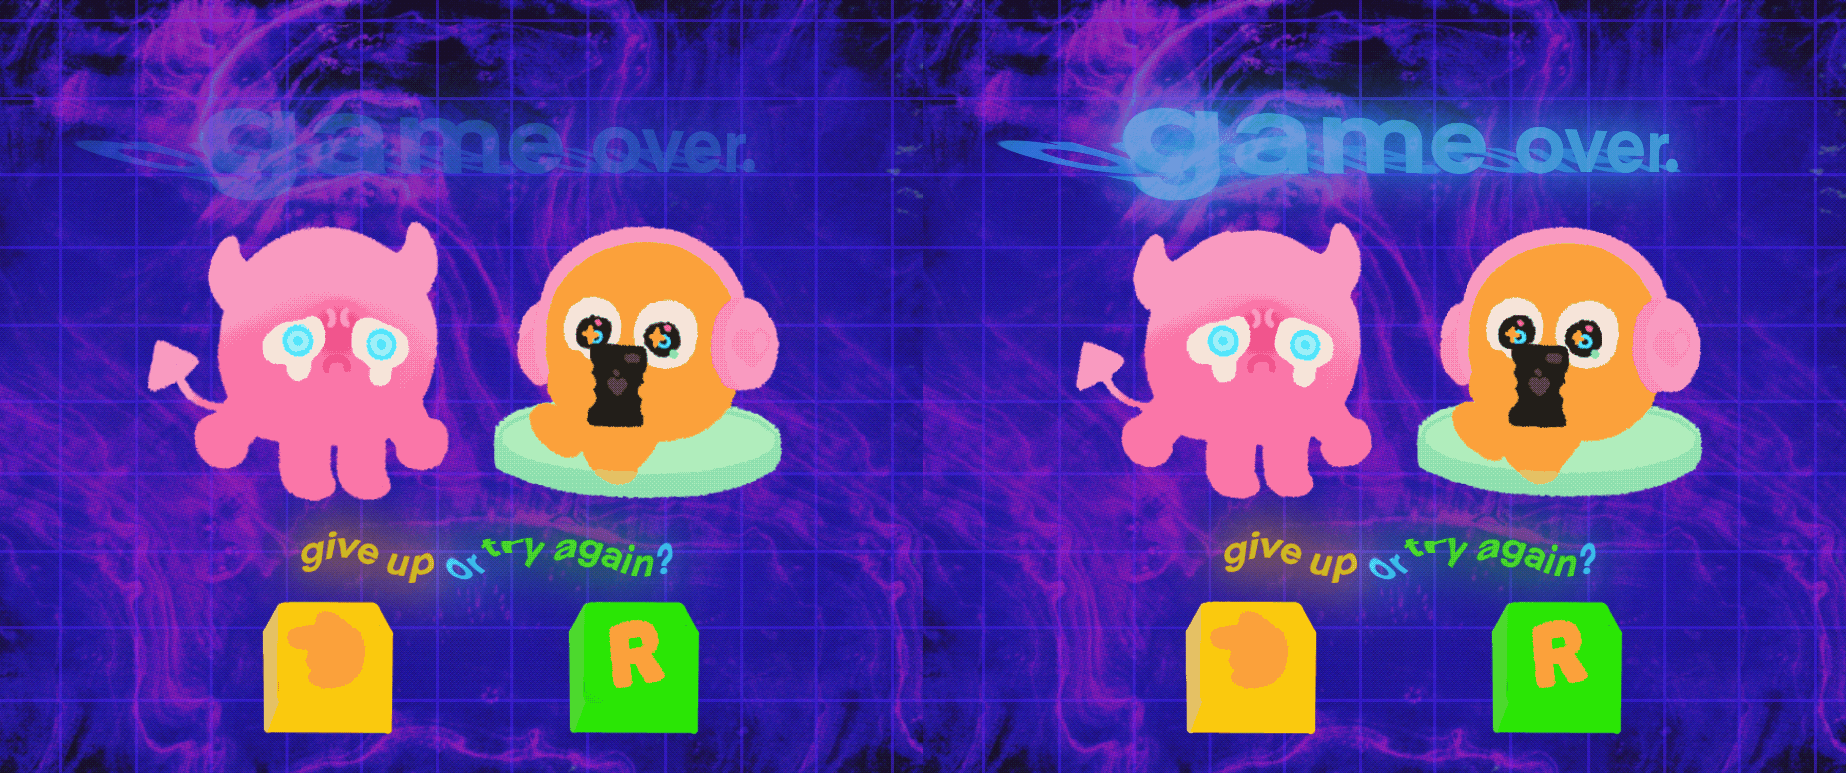
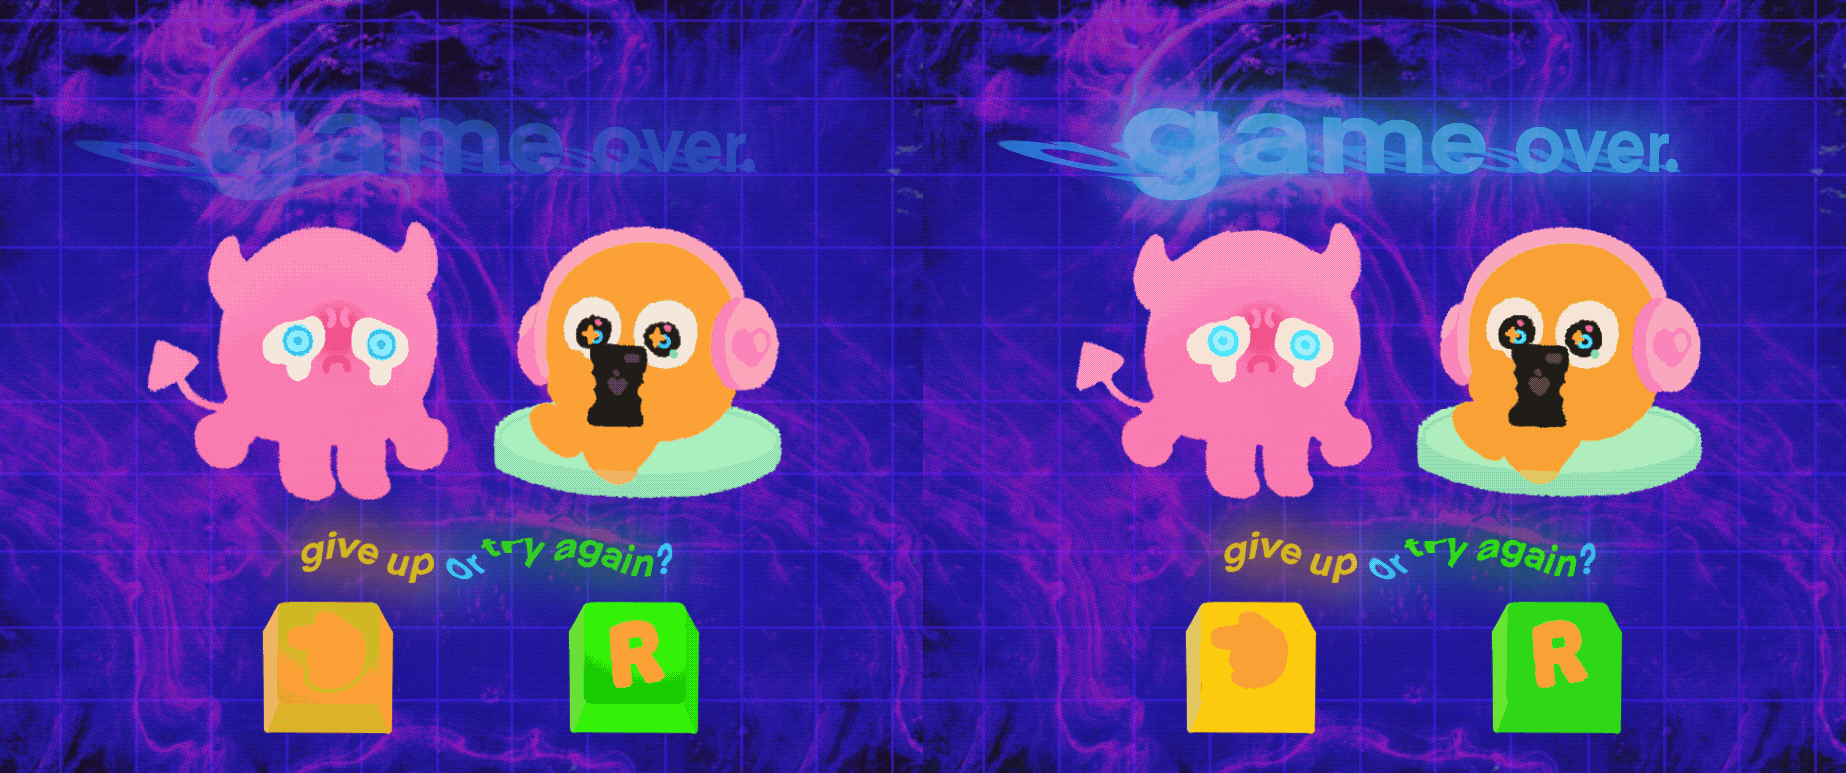
timer added, updated difficulty settings

diff --git a/src/scenes/Play.js b/src/scenes/Play.js
@@ -14,9 +14,9 @@ class Play extends Phaser.Scene {
         // load images/tile sprites
         this.load.image('bg', './assets/bg.png');
         // cells
-        this.load.image('leappul', './assets/leappul.png');
+        //this.load.image('leappul', './assets/leappul.png');
         //this.load.image('internalscreaming', './assets/internalscreaming.png');
-        this.load.image('rawrxd', './assets/rawrxd.png');
+        //this.load.image('rawrxd', './assets/rawrxd.png');
         //this.load.image('uwu', './assets/uwu.png');
         // enemies
         this.load.image('sadbat', './assets/sadbat.png');
@@ -71,13 +71,6 @@ class Play extends Phaser.Scene {
             frameRate: 30
         });
 
-        // let gmConfig = this.anims.create({
-        //     key: 'gm',
-        //     frames: this.anims.generateFrameNumbers('gameover', { start: 0, end: 1, first: 0}),
-        //     frameRate: 30
-        // });
-        // this.anims.create(gmConfig);
-
         // NEW: UPDATE AND SHOW SCORE FOR P2 √
         // initialize score
         this.p1Score = 0;
@@ -110,25 +103,13 @@ class Play extends Phaser.Scene {
             },
             fixedWidth: 100
         }
-        // game over
-        let gmConfig = {
-            fontFamily: 'Courier',
-            fontSize: '28px',
-            backgroundColor: '#000000',
-            color: '#6666FF',
-            align: 'center',
-            padding: {
-            top: 5,
-            bottom: 5,
-            },
-            fixedWidth: 100
-        }
 
+        // clock
         let clockConfig = {
-            fontFamily: 'Courier',
-            fontSize: '100px',
-            backgroundColor: '#21FFFF',
-            color: '#FFFFFF',
+            fontFamily: 'Comic Sans MS',
+            fontSize: '28px',
+            //backgroundColor: '#000000',
+            color: '#21FFFF',
             align: 'center',
             padding: {
             top: 5,
@@ -139,11 +120,10 @@ class Play extends Phaser.Scene {
 
         // display scores √
         // p1
-        this.scoreLeft = this.add.text(borderUISize + borderPadding, borderUISize + borderPadding*2, "" + this.p1Score, scoreConfig);
+        this.scoreLeft = this.add.text(borderUISize + borderPadding, borderUISize + borderPadding*2, this.p1Score, scoreConfig);
         // p2
-        this.scoreLeft2 = this.add.text(borderUISize + borderPadding + 700, borderUISize + borderPadding*2, "" + this.p2Score, scoreConfig2);
+        this.scoreLeft2 = this.add.text(borderUISize + borderPadding + 700, borderUISize + borderPadding*2, this.p2Score, scoreConfig2);
         
-        // NEW: UPDATE GAME OVER - MAKE SEP SCENE
         // GAME OVER flag
         this.gameOver = false;
         
@@ -151,15 +131,27 @@ class Play extends Phaser.Scene {
         // 60-second play clock
         scoreConfig.fixedWidth = 0;
         this.clock = this.time.delayedCall(game.settings.gameTimer, () => {
+            // NEW: UPDATE GAME OVER - MAKE SEP SCENE √
             this.scene.start("gmScene");
-            //this.add.text(game.config.width/2, game.config.height/2, 'GAME OVER', gmConfig).setOrigin(0.5);
-            //this.add.text(game.config.width/2, game.config.height/2 + 64, 'Press (R) to Restart or ← for Menu', scoreConfig).setOrigin(0.5);
             this.gameOver = true;
         }, null, this);
-        // display time?
+
+        this.timer = this.time.addEvent({ delay: game.settings.gameTimer });
+        this.remaining = this.timer.getRemaining();
+
+        // display time
+        // SRC: emeryplyler
+        scoreConfig.fixedWidth = 100;
+        this.timeShow = this.add.text(borderUISize + borderPadding + 350, borderUISize + borderPadding*2, this.clock + " secs left", clockConfig);
+        this.seconds = 0;
+        scoreConfig.fixedWidth = 0;
     }
 
-    update() {    
+    update() {  
+        // timer countdown
+        this.seconds = this.timer.getRemaining() / 1000;
+        this.timeShow.text = Math.ceil(this.seconds);
+  
         if (this.gameOver && Phaser.Input.Keyboard.JustDown(keyR)) {
             this.scene.restart();
         }

diff --git a/src/scenes/Difficulty.js b/src/scenes/Difficulty.js
@@ -44,8 +44,8 @@ class Difficulty extends Phaser.Scene {
         if (Phaser.Input.Keyboard.JustDown(keyLEFT)) {
         // EXPERT MODE <-
             game.settings = {
-              spaceshipSpeed: 3,
-              gameTimer: 60000
+              spaceshipSpeed: 4,
+              gameTimer: 45000
             }
             this.sound.play('sfx_select');
             this.scene.start('tutorialScene');    
@@ -53,8 +53,8 @@ class Difficulty extends Phaser.Scene {
         // N00B MODE ->
         if (Phaser.Input.Keyboard.JustDown(keyRIGHT)) {
             game.settings = {
-              spaceshipSpeed: 4,
-              gameTimer: 45000    
+              spaceshipSpeed: 3,
+              gameTimer: 60000    
             }
             this.sound.play('sfx_select');
             this.scene.start('tutorialScene');

diff --git a/src/main.js b/src/main.js
@@ -26,11 +26,12 @@ let borderPadding = borderUISize / 3;
 2. Redesign the game's artwork, UI, and sound to change 
    its theme/aesthetic (to something other than sci-fi) (60)
   - play as brain cells to destroy negative thoughts
-  - ui is on theme - new menu scenes, new borders, new info scenes
+  - ui is on theme - new menu scenes, new borders, new info scenes, new game over scene
   - sound effects + music are cute n simple
 
-3. (unimplemented) Display the time remaining (in seconds) on the screen (10)
-  - 
+3. Display the time remaining (in seconds) on the screen (10)
+  - time is in the middle of the screen
+  - 45 sec for expert, 60 sec for n00b
 
-TOTAL: 30 + 60 
+TOTAL: 30 + 60 + 10 = 100
 */

diff --git a/index.html b/index.html
@@ -4,7 +4,6 @@
     <meta charset="UTF-8" />
     <title>✦bra1nfram3✦</title>
     <link rel="shortcut icon" type="image/jpg" href="assets/favicon.png"/>
-    <script src="//cdn.jsdelivr.net/npm/phaser@3.11.0/dist/phaser.js"></script>
     <style type="text/css">
       body {
         margin: 40px;
